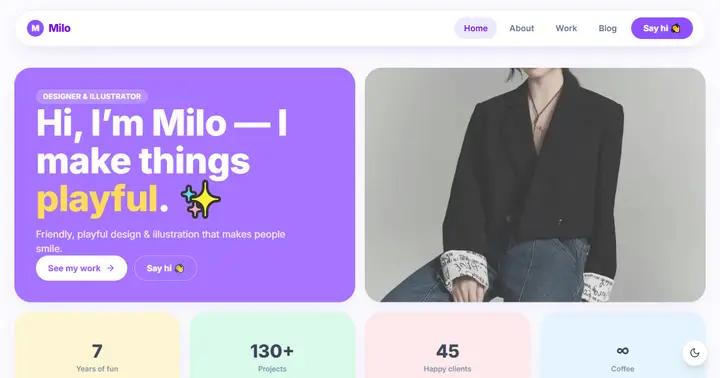
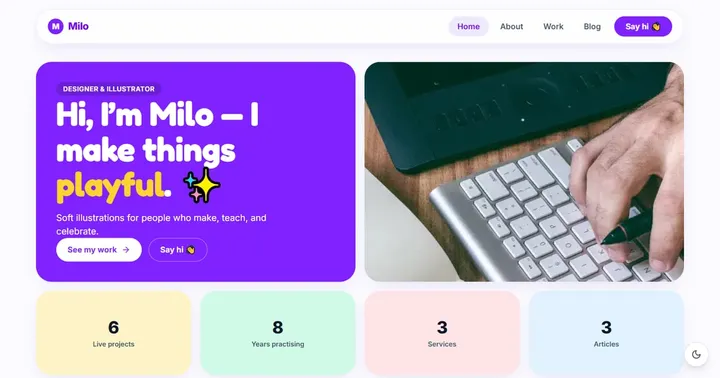
Demo Portfolio: tagline berbahasa Indonesia dan gambar terbaru
Tujuh template portofolio dirombak isinya (studi kasus, tanpa foto stok
orang, logo merek, atau testimoni). Gambar galeri diambil dari og.jpg
barunya; tagline Inggris diganti seperti kategori lain.

diff --git a/app/lib/demos.ts b/app/lib/demos.ts
@@ -61,13 +61,13 @@ export const DEMOS: Demo[] = [
   { slug: "nova", name: "Nova Ardhana", tagline: "Links", category: 'linkinbio', url: "https://linkinbio-nova.vercel.app" },
   { slug: "pulse", name: "PULSE", tagline: "Raka Wijaya, Motion Designer", category: 'linkinbio', url: "https://linkinbio-pulse.vercel.app" },
   { slug: "zen", name: "Sena", tagline: "Ruang Teduh", category: 'linkinbio', url: "https://linkinbio-zen.vercel.app" },
-  { slug: "aria", name: "Aria", tagline: "Creative Developer & Designer", category: 'portfolio', url: "https://portfolio-aria-pearl.vercel.app" },
-  { slug: "carlos", name: "Carlos Mendoza", tagline: "Product Designer & Developer", category: 'portfolio', url: "https://portfolio-carlos-eosin.vercel.app" },
-  { slug: "celeste", name: "Celeste", tagline: "Brand Designer & Art Director", category: 'portfolio', url: "https://portfolio-celeste-one.vercel.app" },
-  { slug: "milo", name: "Milo", tagline: "Designer & Illustrator", category: 'portfolio', url: "https://portfolio-milo.vercel.app" },
-  { slug: "noelle", name: "Noelle", tagline: "UI/UX Designer", category: 'portfolio', url: "https://portfolio-noelle-one.vercel.app" },
-  { slug: "rex", name: "Rex", tagline: "Graphic Designer & Front-end Dev", category: 'portfolio', url: "https://portfolio-rex-zeta.vercel.app" },
-  { slug: "sorelle", name: "Sorelle", tagline: "UI/UX Designer & Developer", category: 'portfolio', url: "https://portfolio-sorelle.vercel.app" },
+  { slug: "aria", name: "Aria", tagline: "Portofolio Kaca untuk Creative Developer", category: 'portfolio', url: "https://portfolio-aria-pearl.vercel.app" },
+  { slug: "carlos", name: "Carlos Mendoza", tagline: "Portofolio Gelap untuk Desainer & Developer", category: 'portfolio', url: "https://portfolio-carlos-eosin.vercel.app" },
+  { slug: "celeste", name: "Celeste", tagline: "Portofolio Editorial untuk Brand Designer", category: 'portfolio', url: "https://portfolio-celeste-one.vercel.app" },
+  { slug: "milo", name: "Milo", tagline: "Portofolio Bento untuk Ilustrator", category: 'portfolio', url: "https://portfolio-milo.vercel.app" },
+  { slug: "noelle", name: "Noelle", tagline: "Portofolio Minimal untuk Desainer UI/UX", category: 'portfolio', url: "https://portfolio-noelle-one.vercel.app" },
+  { slug: "rex", name: "Rex", tagline: "Portofolio Neo-brutalis untuk Desainer Grafis", category: 'portfolio', url: "https://portfolio-rex-zeta.vercel.app" },
+  { slug: "sorelle", name: "Sorelle", tagline: "Portofolio Ceria untuk Desainer UI/UX", category: 'portfolio', url: "https://portfolio-sorelle.vercel.app" },
   { slug: "futsal", name: "Gelanggang Petang", tagline: "Booking Lapangan Futsal", category: 'reservasi', url: "https://reservasi-futsal.vercel.app" },
   { slug: "klinik", name: "Klinik Rumpun Waras", tagline: "Janji Temu Dokter", category: 'reservasi', url: "https://reservasi-klinik-rose.vercel.app" },
   { slug: "restoran", name: "Pawon Lirih", tagline: "Pesan Meja lewat Denah", category: 'reservasi', url: "https://reservasi-restoran-gilt.vercel.app" },
